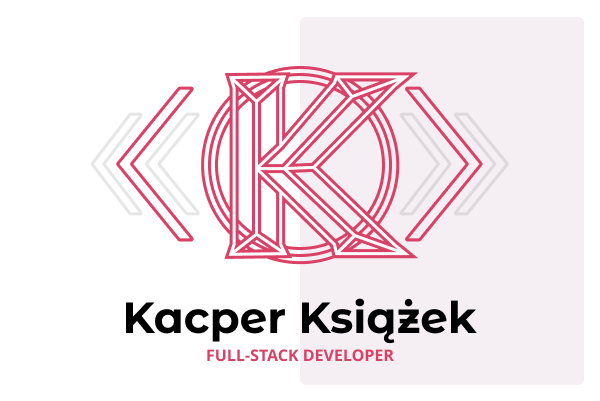
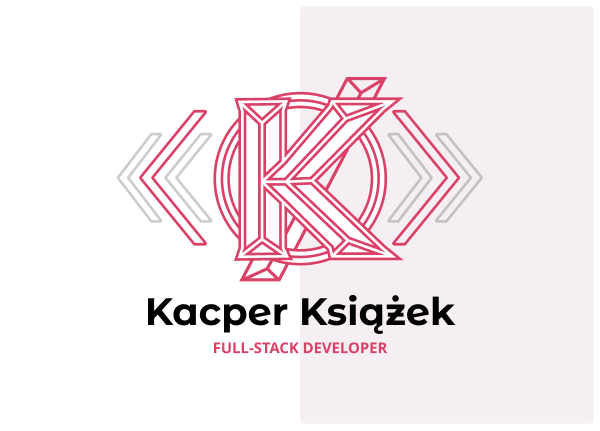
👌 IMPROVE: Open graph image

Changed region(s): [[0.15, 0.1496, 0.81, 0.6584], [0.21, 0.6883, 0.81, 0.8978]]

diff --git a/components/pages/_SEO.tsx b/components/pages/_SEO.tsx
@@ -10,7 +10,7 @@ interface SEOProps {
 }
 
 const SEO: FunctionComponent<SEOProps> = (props) => {
-    const OPEN_GRAPH_THUMBNAIL: string = "https://i.imgur.com/CyWV8QI.png";
+    const OPEN_GRAPH_THUMBNAIL: string = "https://i.imgur.com/oV1MqpF.png";
 
     const urlRoot: string = process.env.NEXT_PUBLIC_ROOT_URL;
     const appName: string = process.env.NEXT_PUBLIC_APP_NAME;
